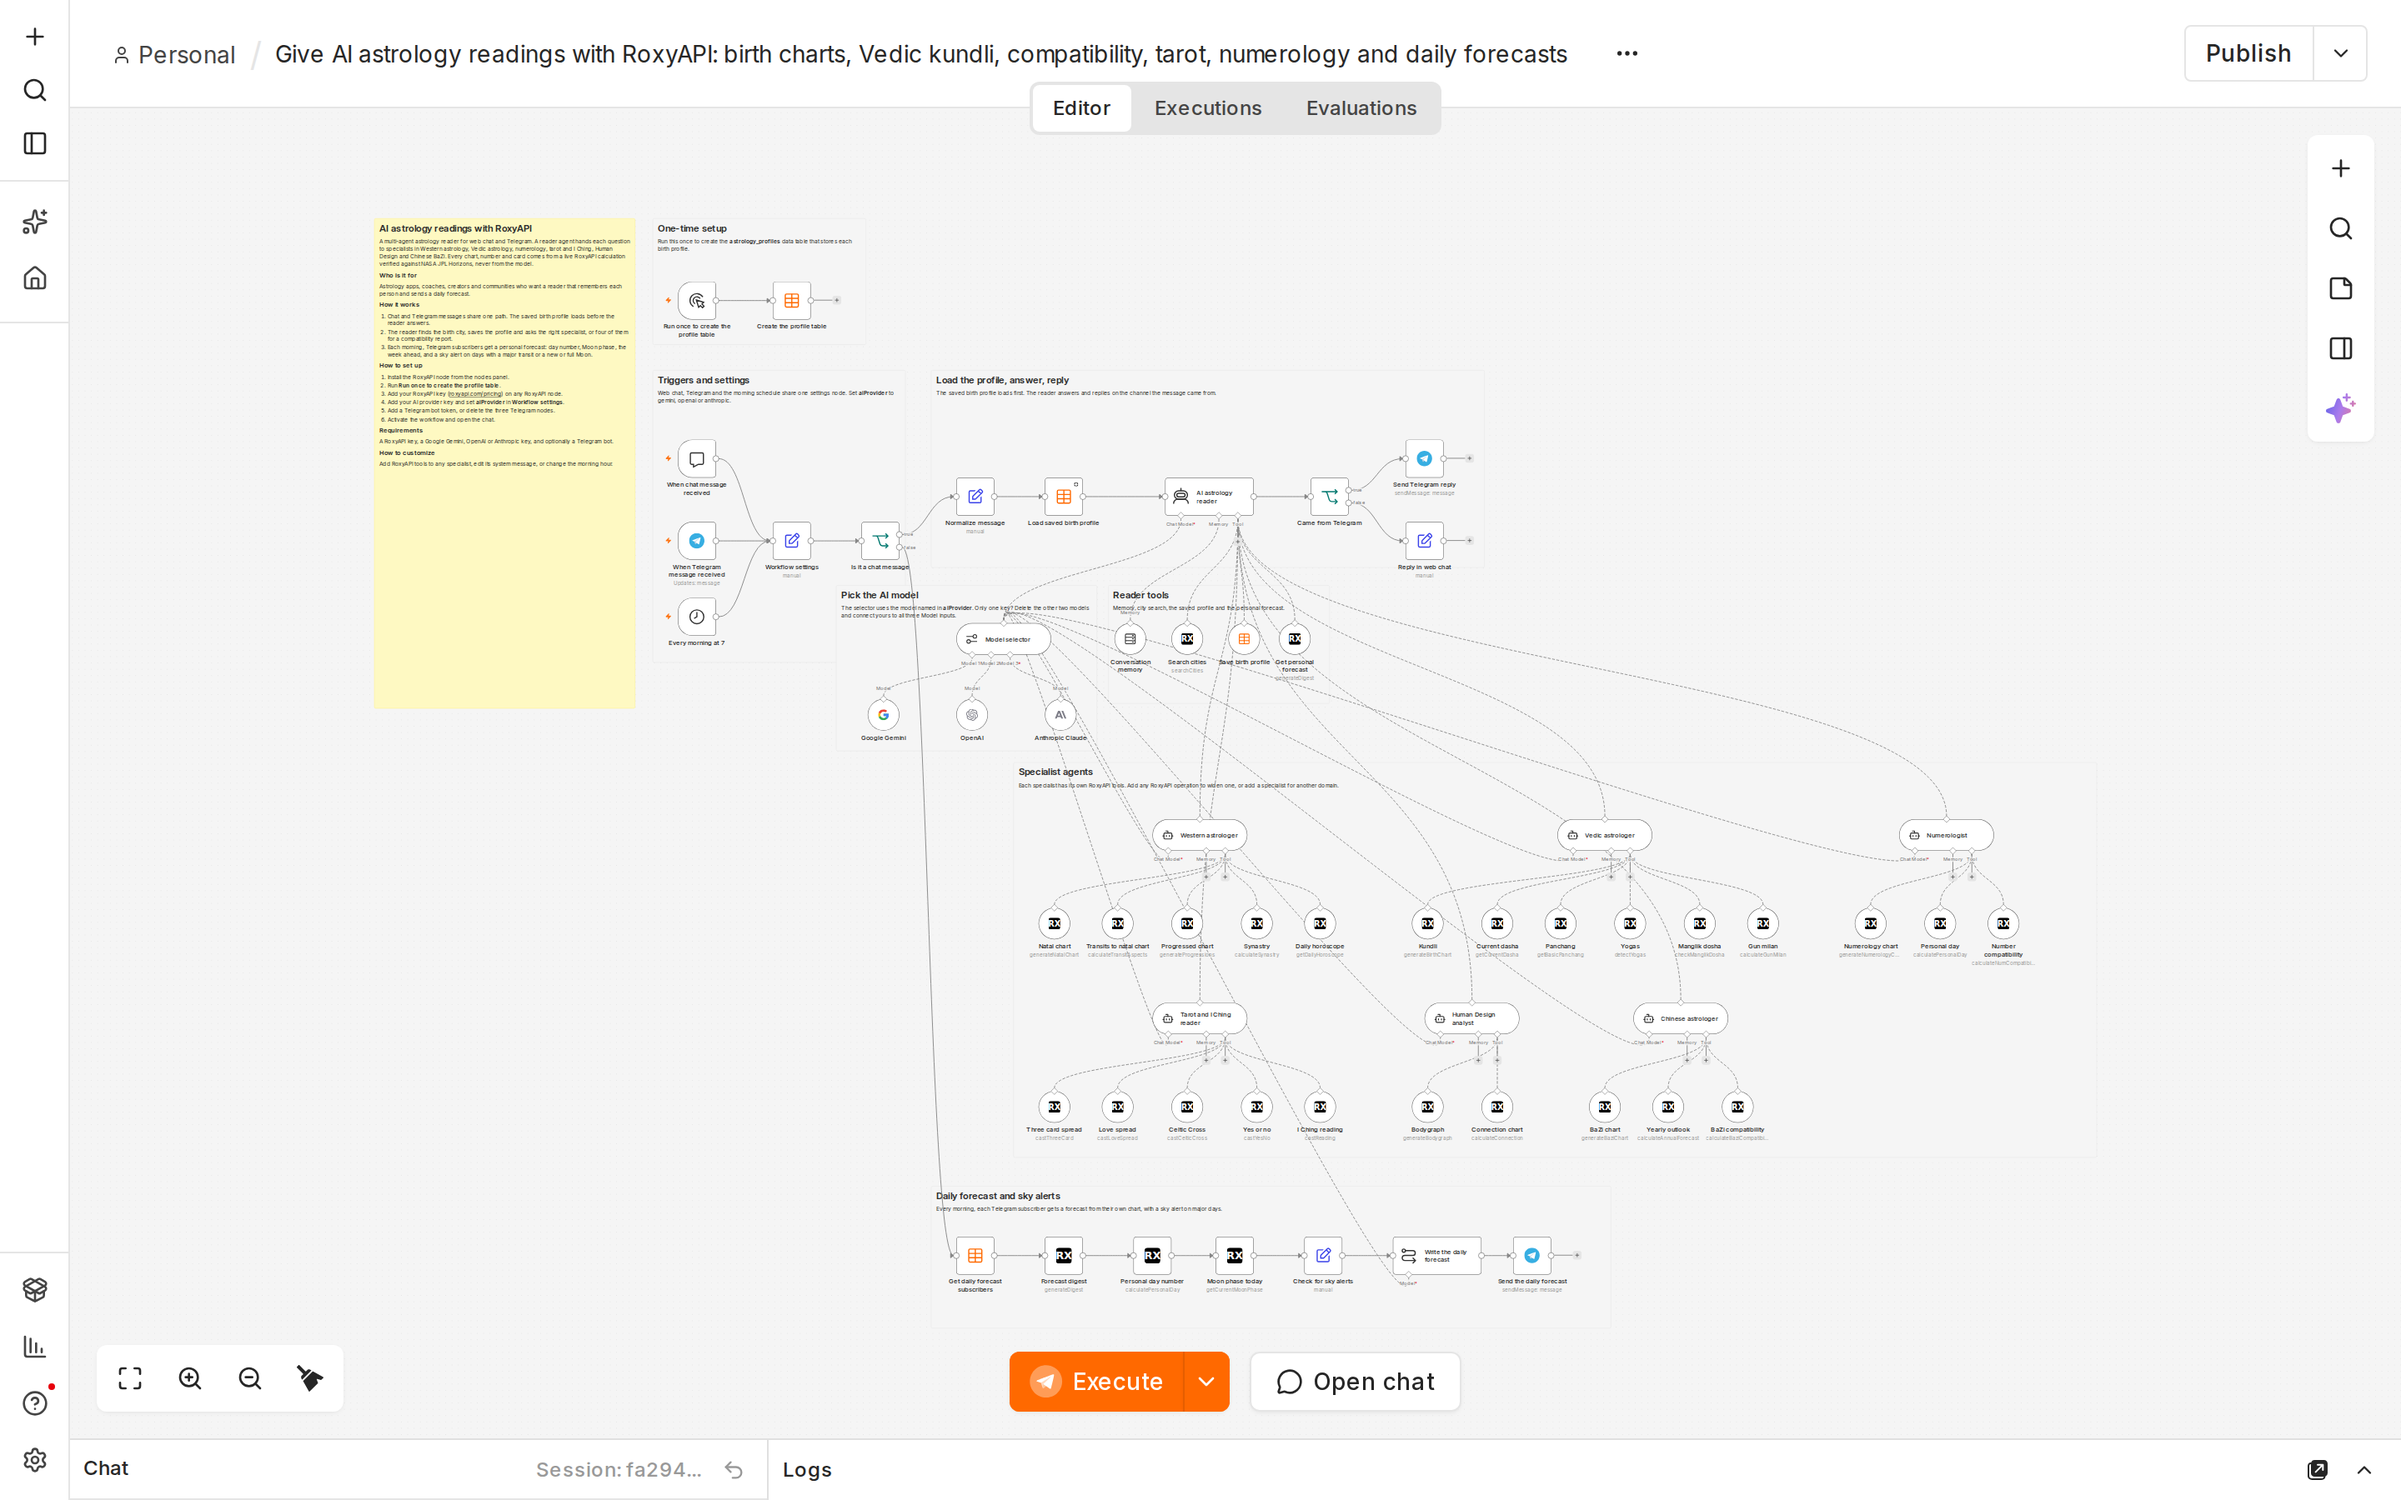
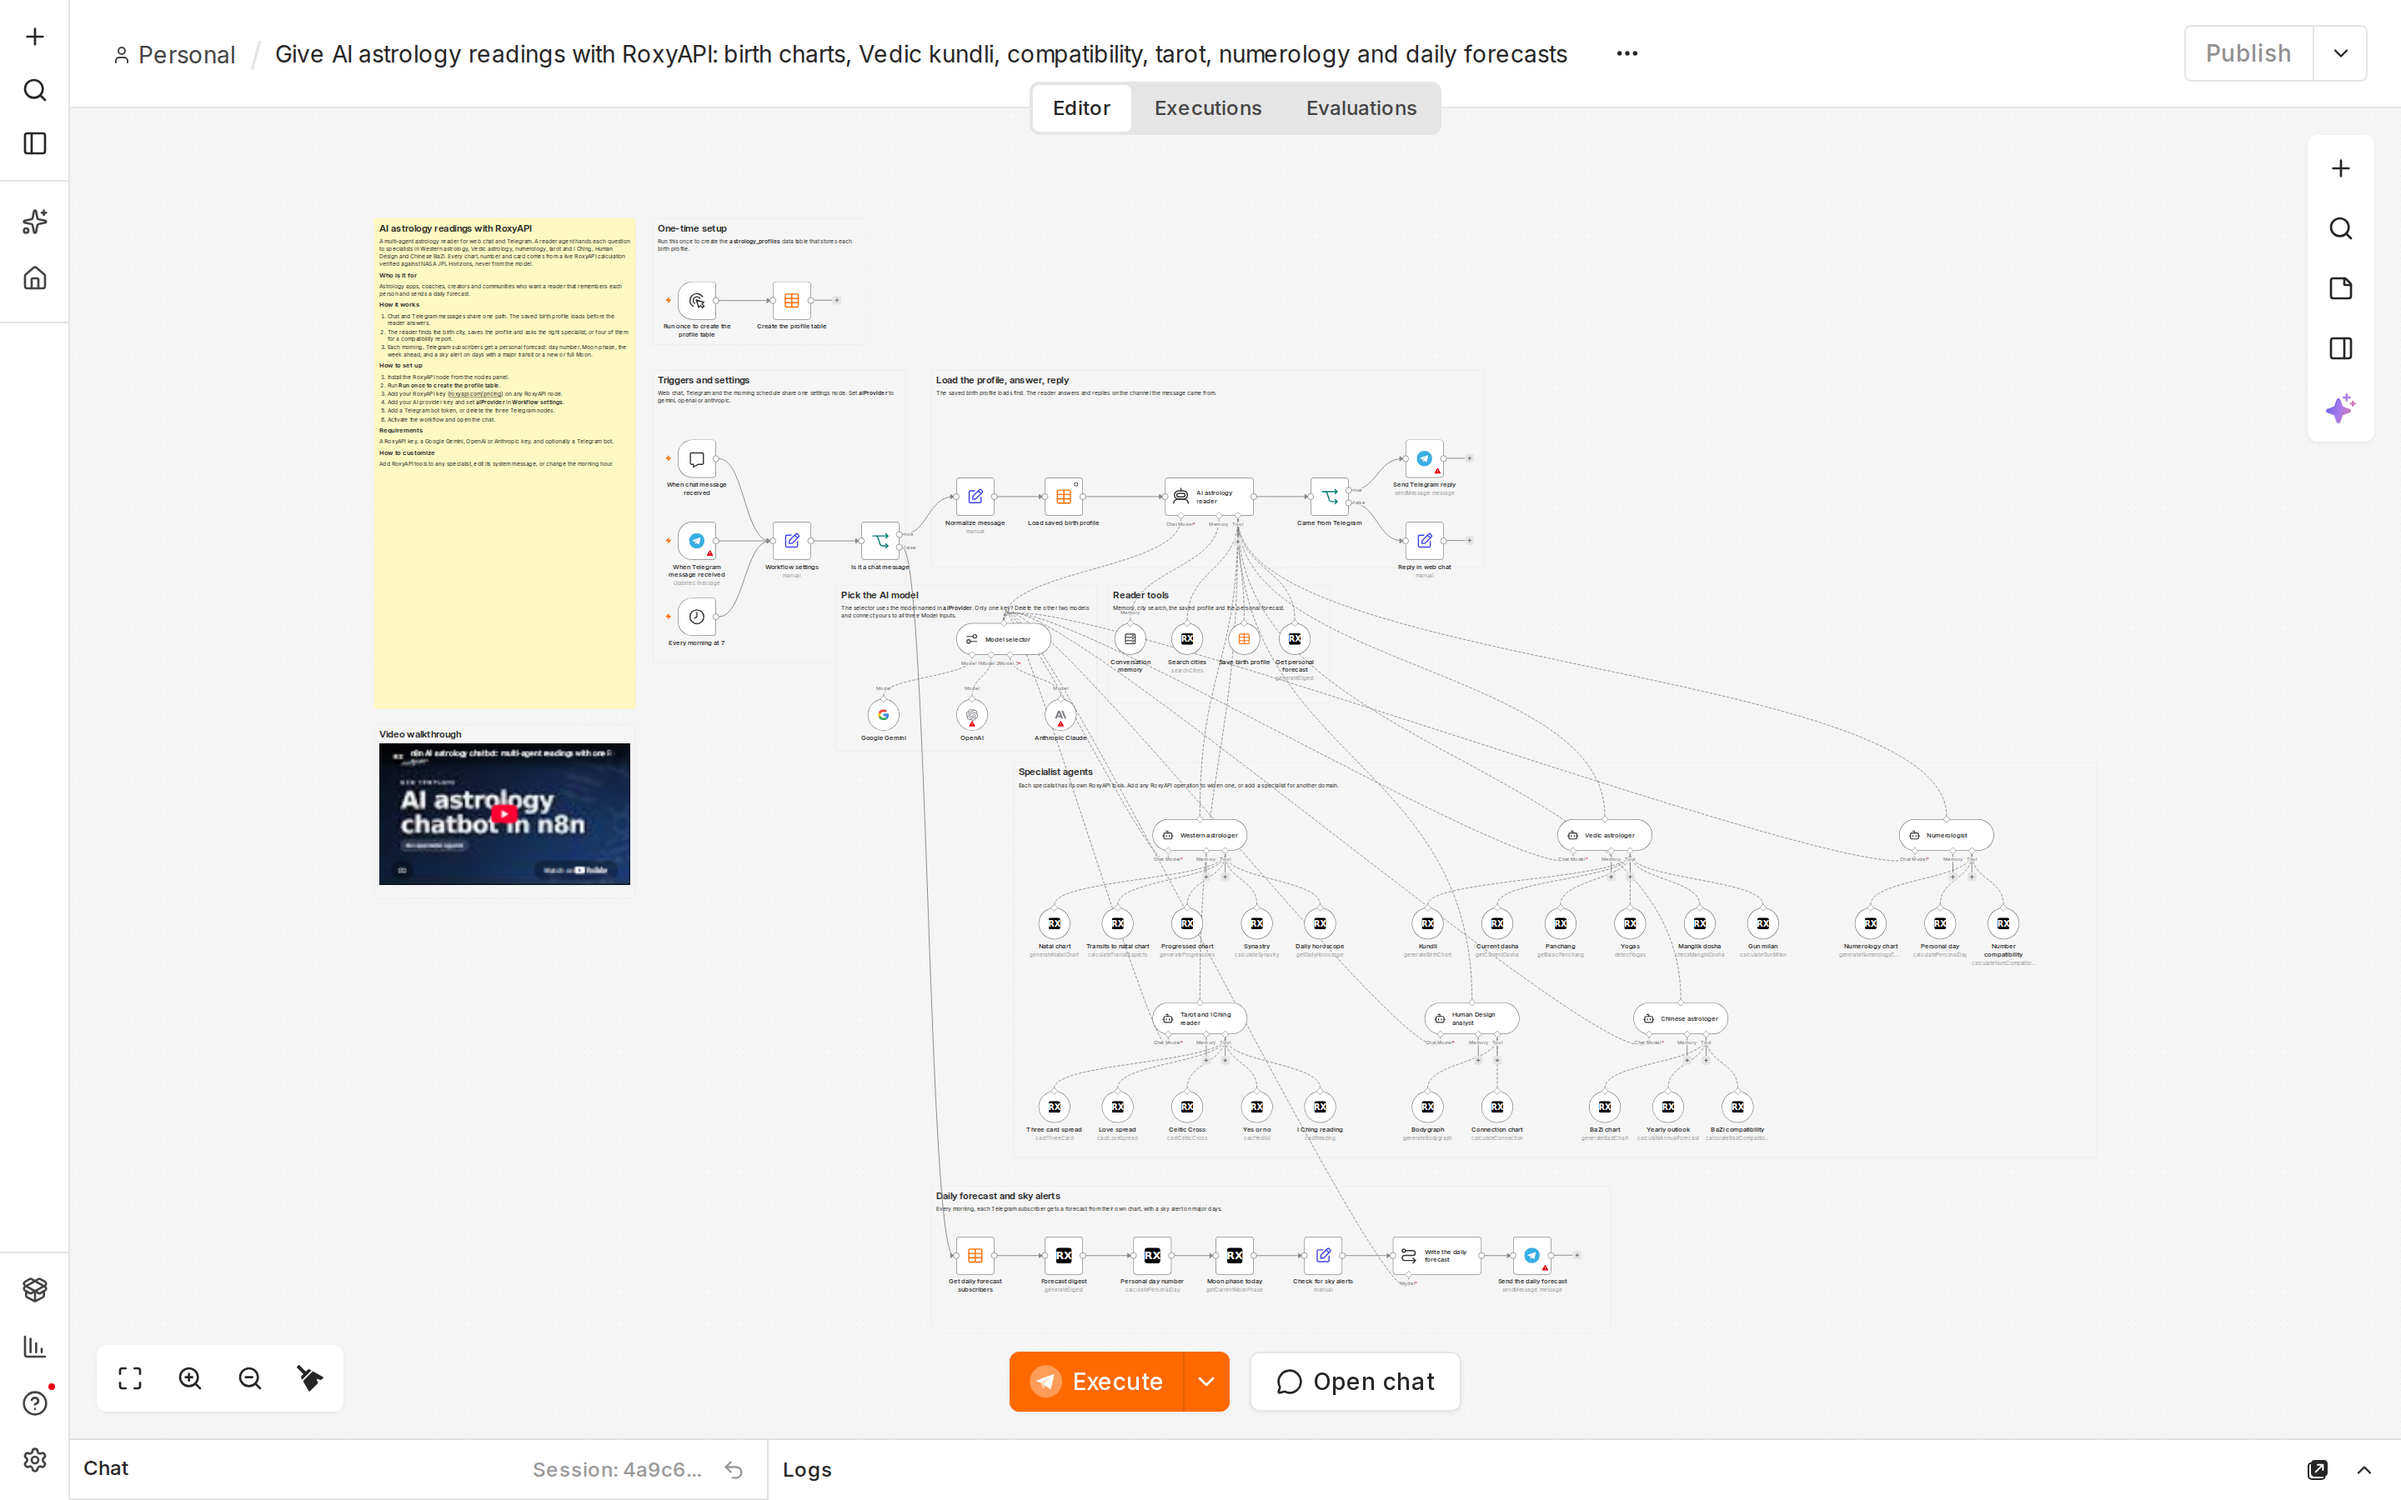
Video walkthrough: sticky on the canvas, README badge and section with the linked thumbnail, canvas screenshot retaken (#5)

Changed region(s): [[0.1562, 0.4667, 0.2812, 0.5911], [0.2188, 0.9644, 0.2812, 0.9956]]

diff --git a/README.md b/README.md
@@ -6,11 +6,18 @@
 [![Try the API live](https://img.shields.io/badge/Try_API_Live-Free_in_browser-22c55e?style=for-the-badge&logo=swagger&logoColor=white)](https://roxyapi.com/api-reference)
 [![Remote MCP](https://img.shields.io/badge/Remote_MCP-Streamable_HTTP-6366f1?style=for-the-badge&logo=modelcontextprotocol&logoColor=white)](https://roxyapi.com/docs/mcp)
 [![n8n node](https://img.shields.io/npm/v/@roxyapi/n8n-nodes-roxyapi?style=for-the-badge&label=n8n%20node&color=ea4b71)](https://www.npmjs.com/package/@roxyapi/n8n-nodes-roxyapi)
+[![Video walkthrough](https://img.shields.io/badge/Video_walkthrough-YouTube-ff0000?style=for-the-badge&logo=youtube&logoColor=white)](https://youtu.be/QYLg9g_YrzE)
 [![n8n guide](https://img.shields.io/badge/Docs-n8n_guide-3b82f6?style=for-the-badge&logo=n8n&logoColor=white)](https://roxyapi.com/docs/integrations/n8n)
 [![Methodology](https://img.shields.io/badge/Methodology-NASA_JPL_verified-f59e0b?style=for-the-badge&logo=nasa&logoColor=white)](https://roxyapi.com/methodology)
 [![More Templates](https://img.shields.io/badge/More_Templates-RoxyAPI-ec4899?style=for-the-badge&logo=github&logoColor=white)](https://roxyapi.com/templates)
 
 ![The AI astrology chatbot workflow in the n8n editor: chat and Telegram triggers, a reader agent, a model selector over three AI providers, specialist agents with their RoxyAPI tools, and the daily forecast branch](https://raw.githubusercontent.com/RoxyAPI/n8n-ai-astrology-chatbot/main/screenshots/workflow-canvas.png)
+
+## Is there a video walkthrough?
+
+Yes. [n8n AI astrology chatbot: multi-agent readings with one RoxyAPI key](https://youtu.be/QYLg9g_YrzE) imports this workflow from its GitHub URL, creates the profile table, adds the RoxyAPI and Gemini keys, connects one model to the model selector, then asks for a birth chart and a four-system compatibility report.
+
+[![The n8n AI astrology chatbot video walkthrough](https://img.youtube.com/vi/QYLg9g_YrzE/maxresdefault.jpg)](https://youtu.be/QYLg9g_YrzE)
 
 ## What does this n8n workflow do?
 
